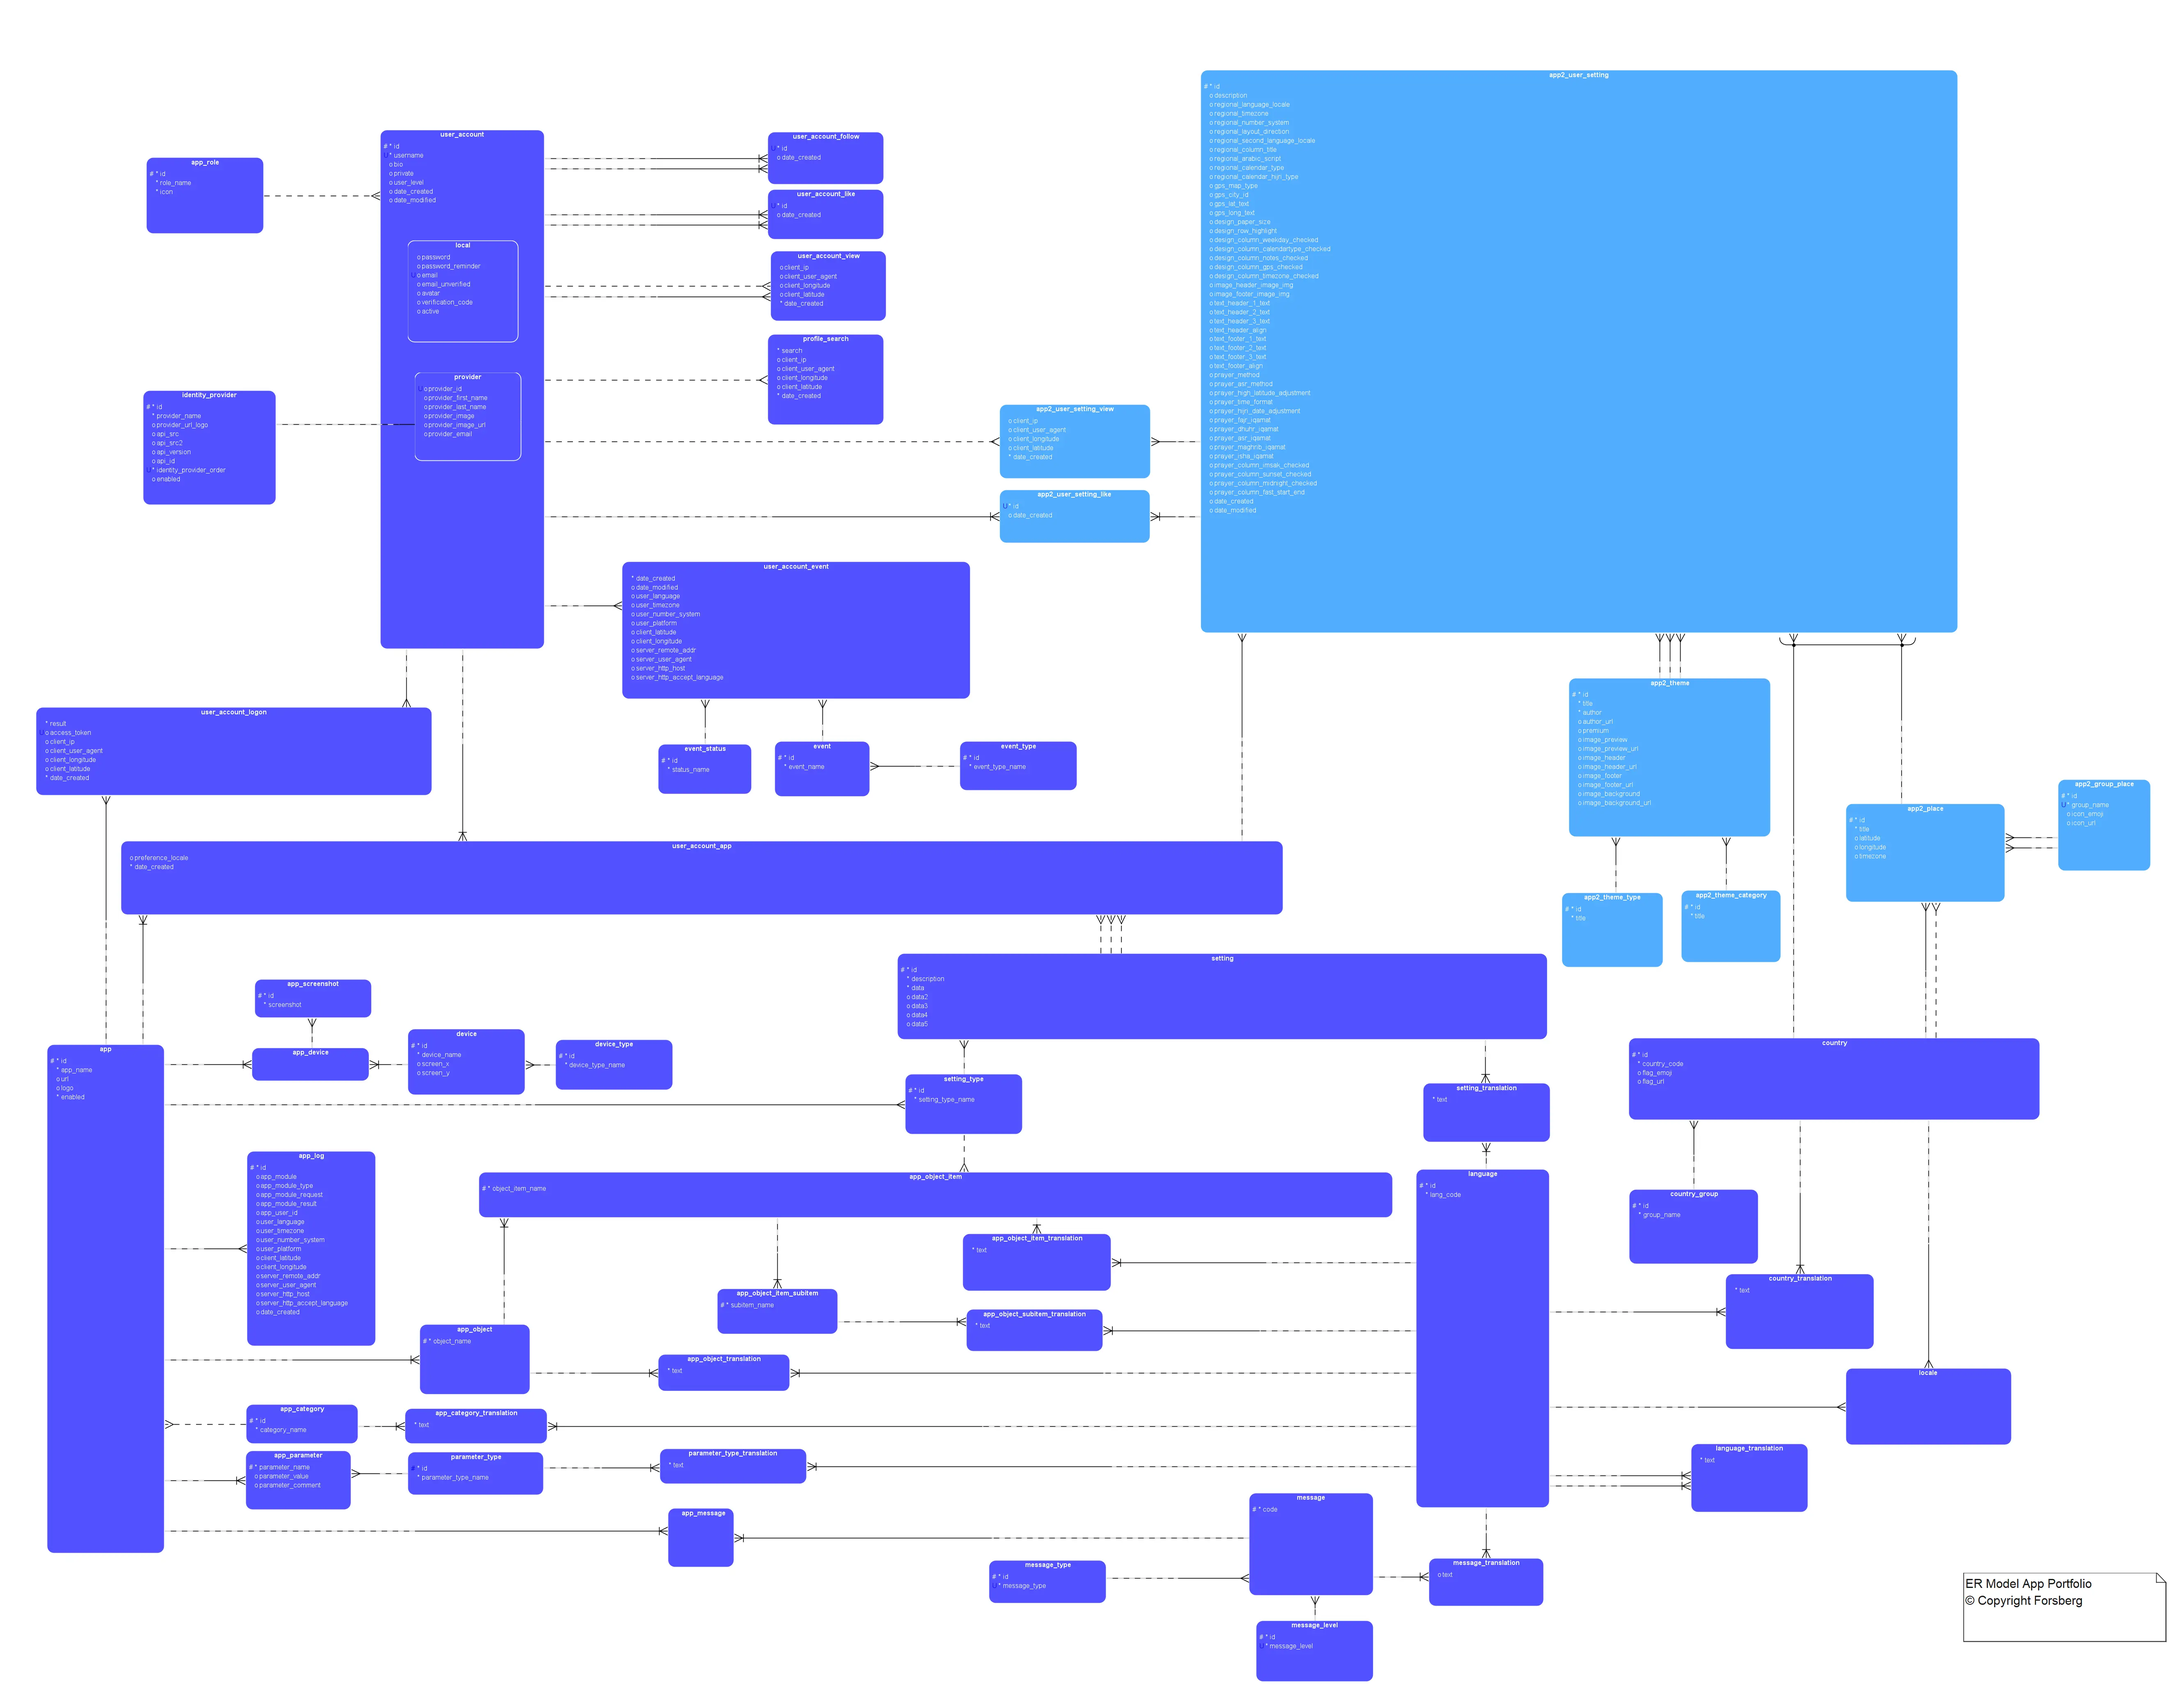
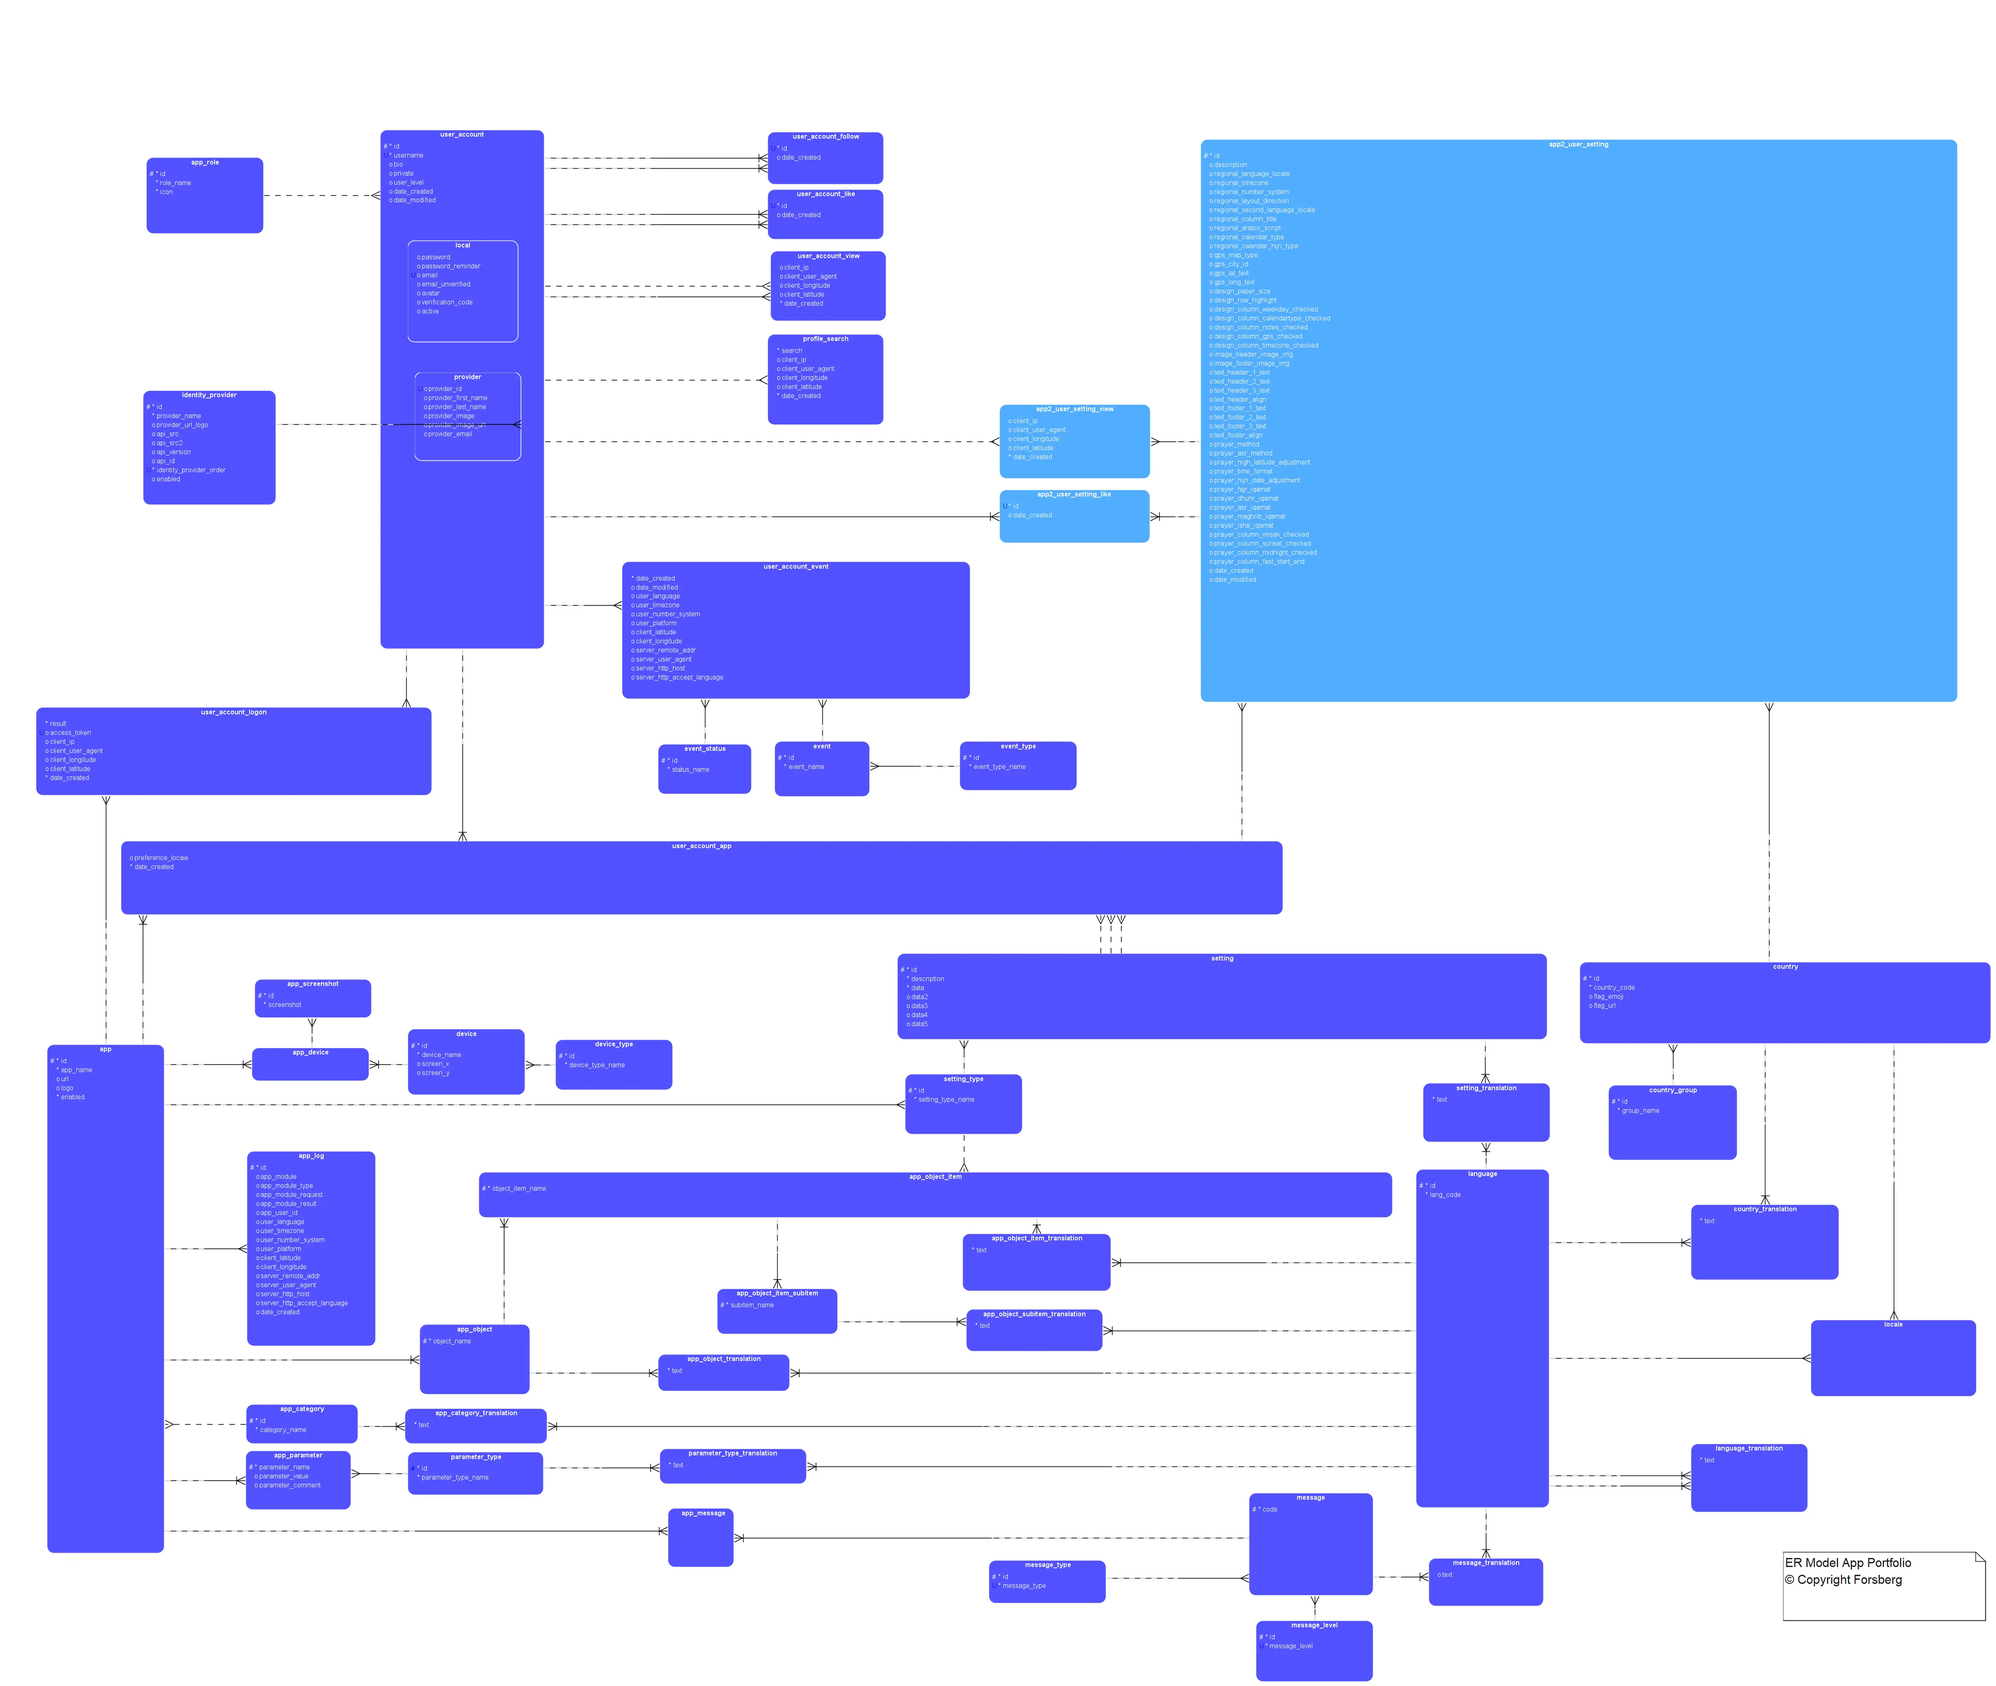
APB-476 drops tables app2_place and app2_group_place and app2 reads places from settings table, removes arc_1 relation on app2_user_setting, updates data model

diff --git a/apps/app2/server.js b/apps/app2/server.js
@@ -180,7 +180,6 @@ app.get('/', (req, res, next) => {
   const {ConfigGet} = await import(`file://${process.cwd()}/server/server.service.js`);
   const rest_api_path = `${ConfigGet(1, 'SERVER', 'REST_RESOURCE_SERVICE')}/db${ConfigGet(1, 'SERVICE_DB', 'REST_RESOURCE_SCHEMA')}`;
   const { checkAccessToken, checkDataToken} = await import(`file://${process.cwd()}${ConfigGet(1, 'SERVER', 'REST_RESOURCE_SERVICE')}/auth/auth.controller.js`);
-  const { getPlace } = await import(`file://${process.cwd()}/apps/app2/service/db/app2_place/app2_place.controller.js`);
   const { createUserSetting, 
     getUserSettingsByUserId, 
     getProfileUserSetting,
@@ -200,31 +199,26 @@ app.get('/', (req, res, next) => {
   const router = [Router()];
 
   router[0].use(log_router);
-  router[0].get("/",  checkDataToken, getPlace);
-  app.use(`${rest_api_path}/app2_place`, router[0]);
+  router[0].get("/:id", checkDataToken, getUserSetting);
+  router[0].get("/user_account_id/:id", checkDataToken, getUserSettingsByUserId);
+  router[0].get("/profile/:id", checkDataToken, getProfileUserSetting);
+  router[0].get("/profile/all/:id", checkDataToken, getProfileUserSettings);
+  router[0].get("/profile/detail/:id", checkAccessToken, getProfileUserSettingDetail);
+  router[0].get("/profile/top/:statchoice", checkDataToken, getProfileTop);
+  router[0].post("/", checkAccessToken, createUserSetting);
+  router[0].put("/:id", checkAccessToken, updateUserSetting);
+  router[0].delete("/:id", checkAccessToken, deleteUserSetting);  
+  app.use(`${rest_api_path}/app2_user_setting`, router[0]);
   
   router.push(Router());
   router[1].use(log_router);
-  router[1].get("/:id", checkDataToken, getUserSetting);
-  router[1].get("/user_account_id/:id", checkDataToken, getUserSettingsByUserId);
-  router[1].get("/profile/:id", checkDataToken, getProfileUserSetting);
-  router[1].get("/profile/all/:id", checkDataToken, getProfileUserSettings);
-  router[1].get("/profile/detail/:id", checkAccessToken, getProfileUserSettingDetail);
-  router[1].get("/profile/top/:statchoice", checkDataToken, getProfileTop);
-  router[1].post("/", checkAccessToken, createUserSetting);
-  router[1].put("/:id", checkAccessToken, updateUserSetting);
-  router[1].delete("/:id", checkAccessToken, deleteUserSetting);  
-  app.use(`${rest_api_path}/app2_user_setting`, router[1]);
+  router[1].post("/:id", checkAccessToken, likeUserSetting);
+  router[1].delete("/:id", checkAccessToken, unlikeUserSetting);
+  app.use(`${rest_api_path}/app2_user_setting_like`, router[1]);
   
   router.push(Router());
   router[2].use(log_router);
-  router[2].post("/:id", checkAccessToken, likeUserSetting);
-  router[2].delete("/:id", checkAccessToken, unlikeUserSetting);
-  app.use(`${rest_api_path}/app2_user_setting_like`, router[2]);
-  
-  router.push(Router());
-  router[3].use(log_router);
-  router[3].post("/", checkDataToken, insertUserSettingView);
-  app.use(`${rest_api_path}/app2_user_setting_view`, router[3]);
+  router[2].post("/", checkDataToken, insertUserSettingView);
+  app.use(`${rest_api_path}/app2_user_setting_view`, router[2]);
 
 })();

diff --git a/apps/app2/client.js b/apps/app2/client.js
@@ -71,8 +71,8 @@ const themes = async (app_id) =>{
 }
 const places = async (app_id) => {
     return new Promise((resolve, reject) => {
-        import(`file://${process.cwd()}/apps/app2/service/db/app2_place/app2_place.service.js`).then(({getPlace}) => {
-            getPlace(app_id, (err, results)  => {
+        import(`file://${process.cwd()}${ConfigGet(1, 'SERVER', 'REST_RESOURCE_SERVICE')}/db${ConfigGet(1, 'SERVICE_DB', 'REST_RESOURCE_SCHEMA')}/setting/setting.service.js`).then(({getSettings}) => {
+            getSettings(app_id, 'en', 'PLACE', (err, settings) => {
                 let select_places;
                 if (err){
                     resolve (
@@ -83,24 +83,21 @@ const places = async (app_id) => {
                 else{
                     select_places  =`<select id='setting_select_popular_place'>
                                     <option value="" id="" latitude="0" longitude="0" timezone="" selected="selected">...</option>`
-                    results.map( (places_map,i) => {
-                        if (places_map.country2_flag==null)
-                            select_places +=
-                            `<option  value='${i}' 
-                                        id='${places_map.id}' 
-                                        latitude='${places_map.latitude}' 
-                                        longitude='${places_map.longitude}' 
-                                        timezone='${places_map.timezone}'>${places_map.group1_icon} ${places_map.group2_icon} ${places_map.country_flag} ${places_map.title}
-                                </option>`;
-                        else
-                            select_places +=
-                            `<option  value='${i}' 
-                                        id='${places_map.id}' 
-                                        latitude='${places_map.latitude}' 
-                                        longitude='${places_map.longitude}' 
-                                        timezone='${places_map.timezone}'>${places_map.group1_icon} ${places_map.group2_icon} ${places_map.country_flag} ${places_map.country2_flag} ${places_map.title}
-                                </option>`;
-                    })
+                    let i = 0;
+                    for (let place of settings){
+                        //data 2 = latitude
+                        //data 3 = longitude
+                        //data 4 = timezone
+                        //data 5 = icon
+                        i++;
+                        select_places +=
+                        `<option  value='${i}' 
+                                    id='${place.data}' 
+                                    latitude='${place.data2}' 
+                                    longitude='${place.data3}' 
+                                    timezone='${place.data4}'>${place.data5} ${place.text}
+                            </option>`;
+                    }
                     select_places += '</select>';
                     resolve (select_places);
                 }
